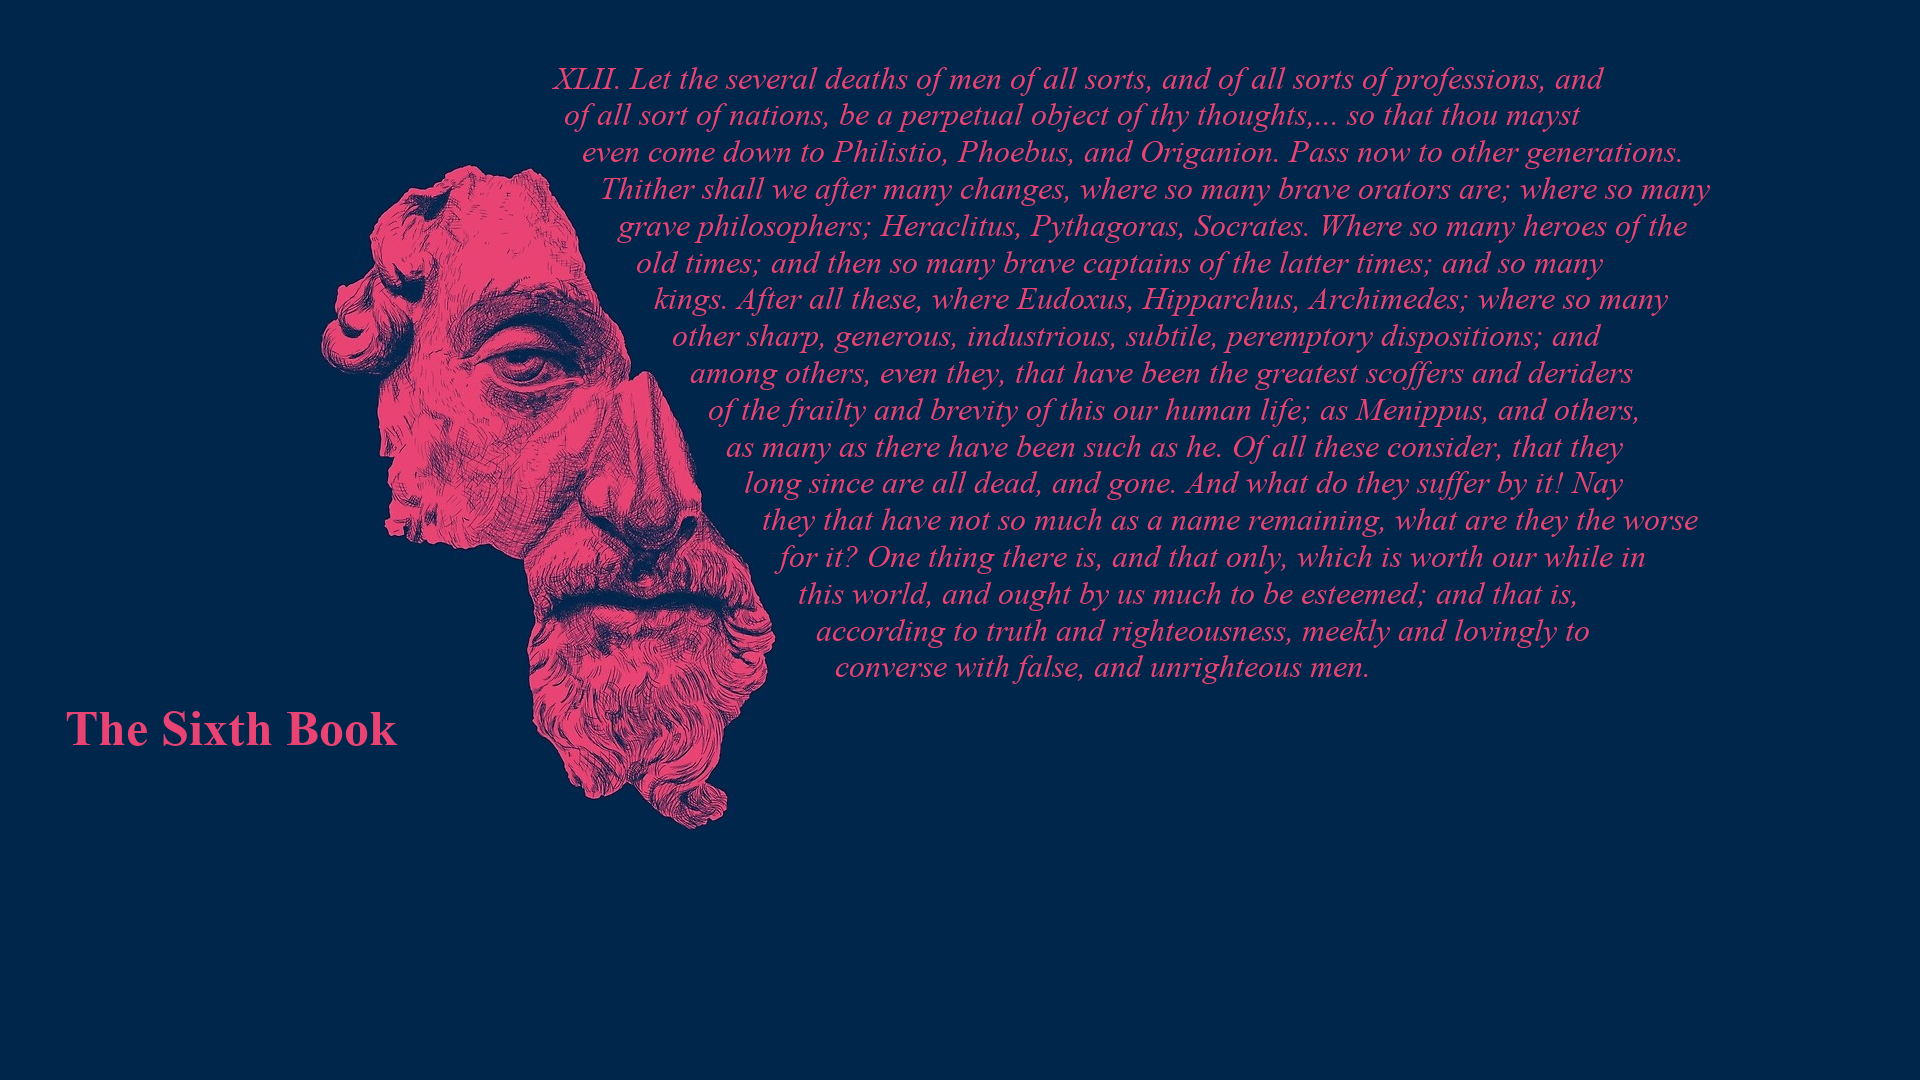
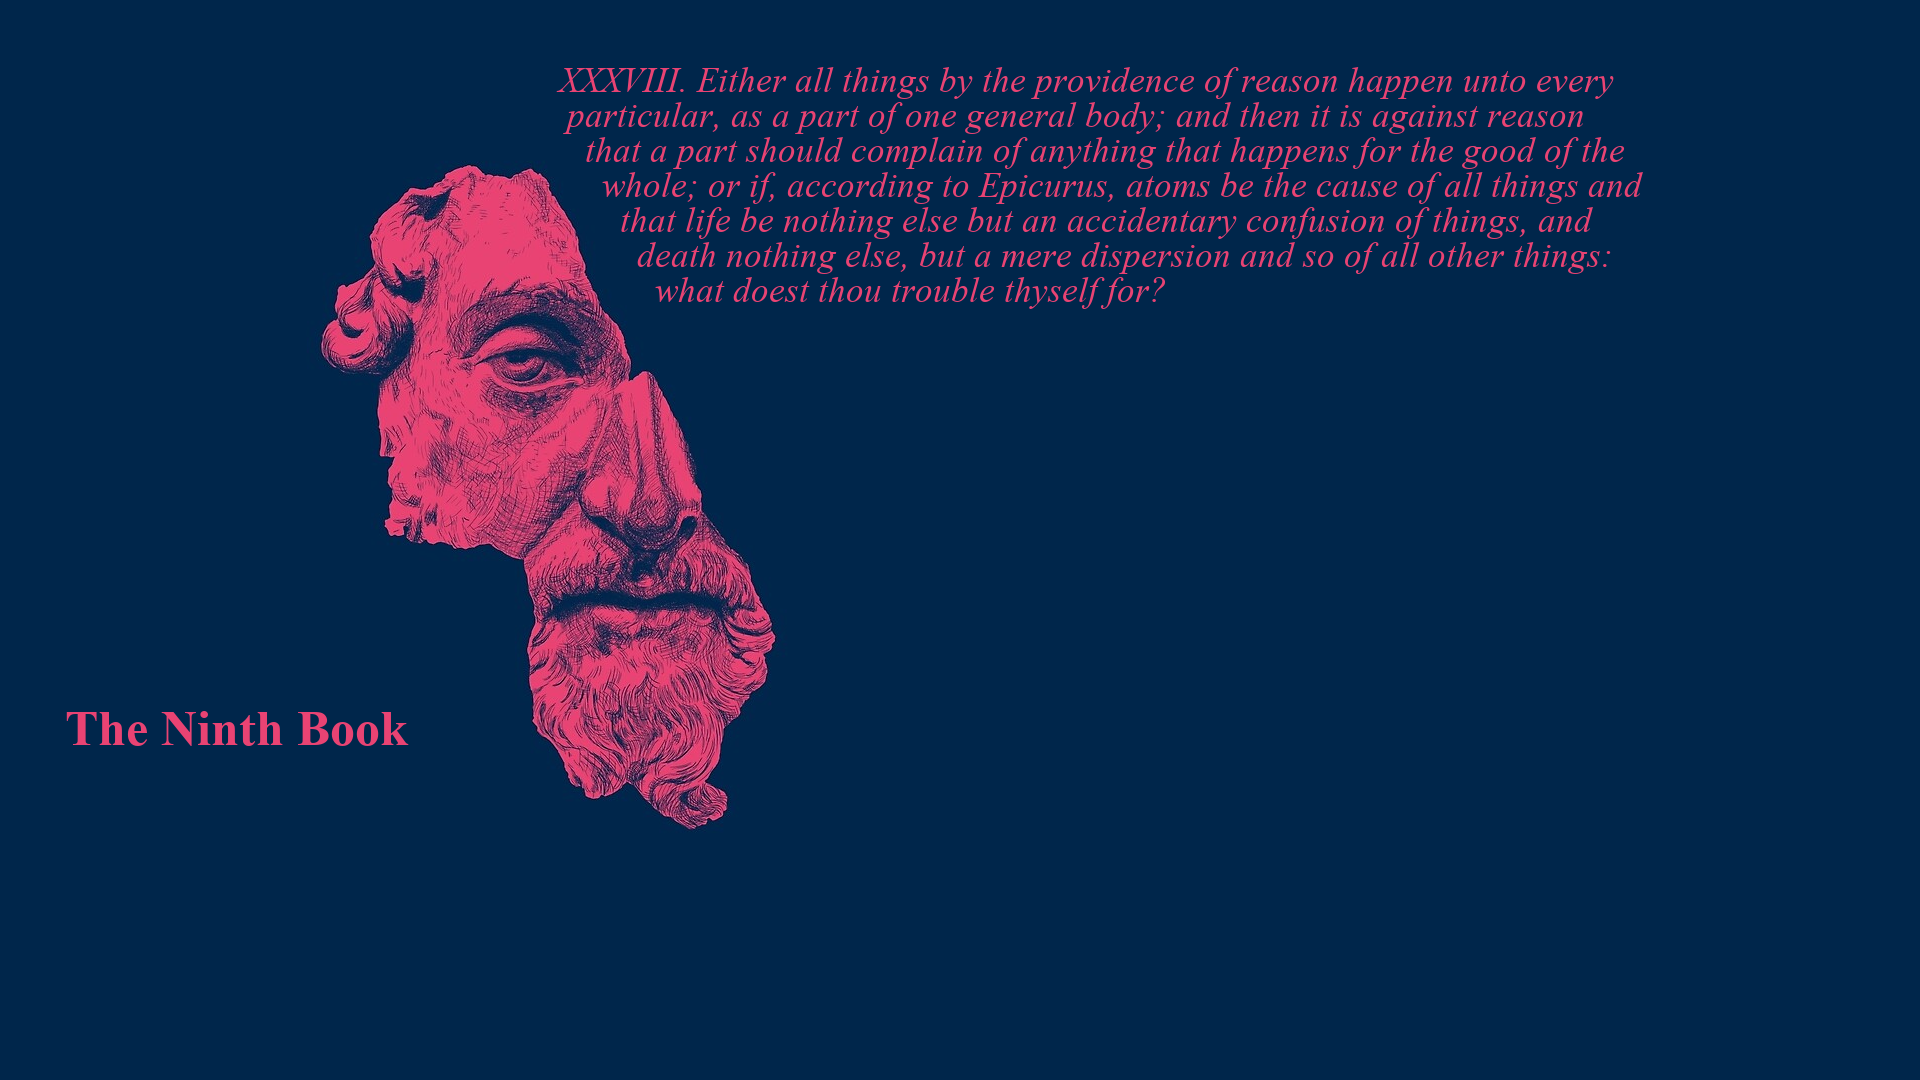
converted formatting function to class

Changed region(s): [[0.2812, 0.0611, 0.875, 0.6417], [0.0938, 0.6417, 0.2188, 0.7028]]

diff --git a/autoMeditationsWallpaper/textFormatter.py b/autoMeditationsWallpaper/textFormatter.py
@@ -1,0 +1,139 @@
+class TextFormatter:
+    inputString = ''
+    length = 0
+    maxLength = 0
+    maxHeight = 0
+    x_start_coordinate = 0
+    fontSizeMax = 0
+    fontSizeMin = 0
+    formatted_lines = []
+    total_line_height = 0
+
+    def __init__(self, text, length, maxLenght, max_height, x, fMax, fMin):
+        self.inputString = text
+        self.length = length
+        self.maxLength = maxLenght
+        self.maxHeight = max_height
+        self.x_start_coordinate = x
+        self.fontSizeMax = fMax
+        self.fontSizeMin = fMin
+
+    def format_input_string(self):
+        length = self.length
+        self.total_line_height = 0
+        self.formatted_lines = []
+        leftover_line = ''
+        for line in self.inputString:
+            if self.total_line_height > 610 and (length + self.fontSizeMax / 2) < self.maxLength:
+
+                length += self.fontSizeMax / 2
+            else:
+                length -= self.fontSizeMax / 2
+
+            new_line = ''
+
+            words = line.split()
+
+            for word in words:
+
+                if (len(new_line) * (self.fontSizeMax / 2)) + ((len(word) * (self.fontSizeMax / 2))) >= length:
+                    self.formatted_lines.append(new_line)
+                    self.total_line_height += (self.fontSizeMax)
+                    new_line = ''
+                    leftover_line += word + " "
+
+                elif (len(leftover_line) * (self.fontSizeMax / 2)) + ((len(word) * (self.fontSizeMax / 2))) < length:
+                    leftover_line += " " + word
+
+                elif (len(leftover_line) * (self.fontSizeMax / 2)) + ((len(word) * (self.fontSizeMax / 2))) > length:
+                    new_line += leftover_line
+                    self.formatted_lines.append(new_line)
+                    self.total_line_height += (self.fontSizeMax)
+                    new_line = ''
+                    leftover_line = word
+            # total_line_height += font_size/2
+
+        if len(leftover_line) > 0:
+            self.formatted_lines.append(leftover_line)
+            self.total_line_height += (self.fontSizeMax)
+            leftover_line = ""
+
+        if self.total_line_height > self.maxHeight:
+            try:
+
+                if self.fontSizeMax == self.fontSizeMin and length < self.maxLength:
+
+                    print("Text to long! Reformatting with longer lines")
+
+                    length += self.fontSizeMax * 4
+
+                    self.format_input_string()
+
+                elif self.fontSizeMax > self.fontSizeMin:
+                    print("Text to long! Reformatting with smaller font")
+                    self.fontSizeMax -= 2
+                    if self.fontSizeMax < self.fontSizeMin:
+                        self.fontSizeMax = self.fontSizeMin
+                    self.format_input_string()
+            except RecursionError:
+                print("Formatting failed: RecursionError")
+                print(self.fontSizeMax)
+                print(self.fontSizeMin)
+                print(self.length)
+                print(self.maxLength)
+
+    def get_formatted_lines(self):
+        return self.formatted_lines
+
+    # def stringBreaker(font_size, x, y, input_text):
+    #     length = (1920 - x) / (font_size / 2)
+    #     formatted_lines = []
+    #     leftover_line = ''
+    #     total_line_height = y
+    #
+    #     for line in input_text:
+    #         if total_line_height > 610:
+    #
+    #             length += 1
+    #         else:
+    #             length -= 1
+    #
+    #         new_line = ''
+    #
+    #         words = line.split()
+    #
+    #         for word in words:
+    #
+    #             if len(new_line) + len(word) >= length:
+    #                 formatted_lines.append(new_line)
+    #                 total_line_height += font_size
+    #                 new_line = ''
+    #                 leftover_line += word + " "
+    #
+    #             elif len(leftover_line) + len(word) < length:
+    #                 leftover_line += " " + word
+    #
+    #             elif len(leftover_line) + len(word) > length:
+    #                 new_line += leftover_line
+    #                 formatted_lines.append(new_line)
+    #                 total_line_height += font_size
+    #                 new_line = ''
+    #                 leftover_line = word
+    #         # total_line_height += font_size/2
+    #
+    #     if len(leftover_line) > 0:
+    #         formatted_lines.append(leftover_line)
+    #         total_line_height += font_size
+    #         leftover_line = ""
+    #
+    #     if total_line_height > 990:
+    #         if length < 190 and font_size == 20:
+    #             print(length)
+    #             print("Text to long! Reformatting with longer lines")
+    #
+    #             return stringBreaker(font_size, x * 0.9, y, input_text)
+    #
+    #         print("Text to long! Reformatting with smaller font")
+    #         return stringBreaker(20, x, y, input_text)
+    #
+    #     return formatted_lines

diff --git a/autoMeditationsWallpaper/wallpaperMaker.py b/autoMeditationsWallpaper/wallpaperMaker.py
@@ -2,66 +2,103 @@ from PIL import Image
 from PIL import ImageFont
 from PIL import ImageDraw
 
-from autoMeditationsWallpaper.stringBreaker import stringBreaker
+from autoMeditationsWallpaper.textFormatter import TextFormatter
 
 
-def word_to_number(i):
+def number_to_word(i):
     if i == 1:
-        return "The First Book"
+        return "First"
     elif i == 2:
-        return "The Second Book"
+        return "Second"
     elif i == 3:
-        return "The Third Book"
+        return "Third"
     elif i == 4:
-        return "The Forth Book"
+        return "Forth"
     elif i == 5:
-        return "The Fifth Book"
+        return "Fifth"
     elif i == 6:
-        return "The Sixth Book"
+        return "Sixth"
     elif i == 7:
-        return "The Seventh Book"
+        return "Seventh"
     elif i == 8:
-        return "The Eight Book"
+        return "Eight"
     elif i == 9:
-        return "The Ninth Book"
+        return "Ninth"
     elif i == 10:
-        return "The Eleventh Book"
+        return "Eleventh"
     elif i == 11:
-        return "The Eleventh Book"
+        return "Eleventh"
     elif i == 12:
-        return "The Twelfth Book"
+        return "Twelfth"
     else:
 
         print("wrong input in word_to_number")
         return "ERROR: Book does not exist!"
 
 
+# def textToImage(text, book):
+#     img = Image.open("C:\\Users\Lord of Eight peaks\\PycharmProjects\\StoicWallpaperGenerator\\autoMeditationsWallpaper\\MarcusAureliusWallpaper.png")
+#     draw = ImageDraw.Draw(img)
+#     draw.text((65, 700), (word_to_number(book)), (233, 67, 115), ImageFont.truetype("timesbd.ttf", 50))
+#
+#     number_of_lines = 0
+#     font_size = 40 - float(len(text)) * 0.4
+#     if font_size < 20:
+#         font_size = 20
+#
+#     font = ImageFont.truetype("timesi.ttf", int(font_size))
+#     text = stringBreaker(220 - font_size * 4, 1, text)
+#
+#     x = 530 + font_size * 0.5
+#     y = 60
+#     for line in text:
+#
+#         draw.text((x, y), line, (233, 67, 115), font=font)
+#         if number_of_lines * 2 + font_size * 1.2 < 72:
+#             x += font_size * 0.55
+#
+#         else:
+#             x -= font_size * 0.4
+#
+#         y += 4 + font_size
+#
+#         number_of_lines += 1
+#
+#     img.save("sample-out.png")
+
 def textToImage(text, book):
-    img = Image.open("C:\\Users\\Lord of Eight peaks\\PycharmProjects\\wallpaperChanger\\autoMeditationsWallpaper\\MarcusAureliusWallpaper.png")
+    img = Image.open(
+        "C:\\Users\Lord of Eight peaks\\PycharmProjects\\StoicWallpaperGenerator\\autoMeditationsWallpaper\\MarcusAureliusWallpaper.png")
     draw = ImageDraw.Draw(img)
-    draw.text((65, 700), (word_to_number(book)), (233, 67, 115), ImageFont.truetype("timesbd.ttf", 50))
+    draw.text((65, 700), "The " + (number_to_word(book)) + " Book", (233, 67, 115),
+              ImageFont.truetype("timesbd.ttf", 50))
 
-    number_of_lines = 0
-    font_size = 40 - float(len(text)) * 0.4
-    if font_size < 20:
-        font_size = 20
 
-    font = ImageFont.truetype("timesi.ttf", int(font_size))
-    text = stringBreaker(220 - font_size * 4, 1, text)
 
-    x = 530 + font_size * 0.5
+
+    x = 550
     y = 60
-    for line in text:
+    #
+    # text = stringBreaker(font_size, x, y, text)
+    obj = TextFormatter(text, (1920 - x), (1920 - (x-x/2)), 990, 550, 35, 18)
+
+    obj.format_input_string()
+
+
+    font = ImageFont.truetype("timesi.ttf", obj.fontSizeMax)
+
+
+
+    for line in obj.formatted_lines:
 
         draw.text((x, y), line, (233, 67, 115), font=font)
-        if number_of_lines * 2 + font_size * 1.2 < 72:
-            x += font_size * 0.55
+        if y < 610:
+            x += obj.fontSizeMax / 2
+
 
         else:
-            x -= font_size * 0.4
+            x -= obj.fontSizeMax / 2
 
-        y += 4 + font_size
-
-        number_of_lines += 1
+        y += obj.fontSizeMax
 
     img.save("sample-out.png")

diff --git a/autoMeditationsWallpaper/textSlicer.py b/autoMeditationsWallpaper/textSlicer.py
@@ -3,6 +3,7 @@ from random import randrange
 from autoMeditationsWallpaper.wallpaperMaker import textToImage
 
 
+
 def findLines2():
     excerpts = [[1, 1], [1, 2], [1, 3], [1, 4], [1, 5], [1, 6], [1, 7], [1, 8], [1, 9], [1, 10], [1, 11], [1, 12],
                 [1, 13], [1, 14], [1, 15], [1, 16], [1, 17], [2, 1], [2, 2], [2, 3], [2, 4], [2, 6], [2, 7], [2, 8],
@@ -42,24 +43,22 @@ def findLines2():
                 [12, 9], [12, 10], [12, 11], [12, 12], [12, 13], [12, 14], [12, 15], [12, 16], [12, 17], [12, 18],
                 [12, 19], [12, 20], [12, 21], [12, 22], [12, 23], [12, 24], [12, 25], [12, 26], [12, 27]]
 
-    randomExcerpt = randrange(1, len(excerpts))
-    print(excerpts[randomExcerpt])
-    print(excerpts[randomExcerpt])
-    print(randomExcerpt)
-
+    randomExcerpt = randrange(0, len(excerpts)-1)
 
 
     start_string = excerpts[randomExcerpt][1]
     end_string = start_string + 1
     text = []
-    #with open('C:\\Users\\Lord of Eight peaks\\PycharmProjects\wallpaperChanger\\autoMeditationsWallpaper\\meditations\\book' + str(1) + '.txt', 'rt') as myfile:
-    with open('C:\\Users\\Lord of Eight peaks\\PycharmProjects\wallpaperChanger\\autoMeditationsWallpaper\\meditations\\book' + str(excerpts[randomExcerpt][0]) + '.txt', 'rt') as myfile:
+
+    #with open('C:\\Users\\Lord of Eight peaks\\PycharmProjects\\StoicWallpaperGenerator\\autoMeditationsWallpaper\\meditations\\book' + str(10) + '.txt', 'rt') as myfile:
+    with open('C:\\Users\\Lord of Eight peaks\\PycharmProjects\\StoicWallpaperGenerator\\autoMeditationsWallpaper\\meditations\\book' + str(excerpts[randomExcerpt][0]) + '.txt', 'rt') as myfile:
 
         for line in myfile:
 
             if len(line) > 1:
                 first_word = line.split()[0]
                 if first_word == int_to_Roman(end_string) + ".":
+
 
                     break
                 elif first_word == int_to_Roman(start_string) + ".":
@@ -68,7 +67,6 @@ def findLines2():
                 elif len(text) != 0:
 
                     text.append(line.rstrip('\n'))
-
 
     textToImage(text, excerpts[randomExcerpt][0])
 
@@ -94,4 +92,3 @@ def int_to_Roman(num):
             num -= val[i]
         i += 1
     return roman_num
-

diff --git a/stringBreaker.py b/stringBreaker.py
@@ -1,0 +1,53 @@
+def stringBreaker(font_size, x, y, input_text):
+    length = (1920 - x) / (font_size / 2)
+    formatted_lines = []
+    leftover_line = ''
+    total_line_height = y
+
+    for line in input_text:
+        if total_line_height > 610:
+
+            length += 1
+        else:
+            length -= 1
+
+        new_line = ''
+
+        words = line.split()
+
+        for word in words:
+
+            if len(new_line) + len(word) >= length:
+                formatted_lines.append(new_line)
+                total_line_height += font_size
+                new_line = ''
+                leftover_line += word + " "
+
+            elif len(leftover_line) + len(word) < length:
+                leftover_line += " " + word
+
+            elif len(leftover_line) + len(word) > length:
+                new_line += leftover_line
+                formatted_lines.append(new_line)
+                total_line_height += font_size
+                new_line = ''
+                leftover_line = word
+        # total_line_height += font_size/2
+
+    if len(leftover_line) > 0:
+        formatted_lines.append(leftover_line)
+        total_line_height += font_size
+        leftover_line = ""
+
+    if total_line_height > 990:
+        if length < 190 and font_size == 20:
+            print(length)
+            print("Text to long! Reformatting with longer lines")
+
+            return stringBreaker(font_size, x*0.9, y, input_text)
+
+        print("Text to long! Reformatting with smaller font")
+        return stringBreaker(20, x, y, input_text)
+
+
+    return formatted_lines

diff --git a/autoMeditationsWallpaper/__main__.py b/autoMeditationsWallpaper/__main__.py
@@ -2,8 +2,11 @@ import ctypes
 import os
 
 from autoMeditationsWallpaper.textSlicer import findLines2
+from autoMeditationsWallpaper.textFormatter import TextFormatter
 
 
 def main():
+
+
     findLines2()
-    ctypes.windll.user32.SystemParametersInfoW(20, 0,"C:\\Users\\Lord of Eight peaks\\PycharmProjects\\wallpaperChanger\\sample-out.png",0)
+    ctypes.windll.user32.SystemParametersInfoW(20, 0,"C:\\Users\\Lord of Eight peaks\\PycharmProjects\\StoicWallpaperGenerator\\sample-out.png",0)
